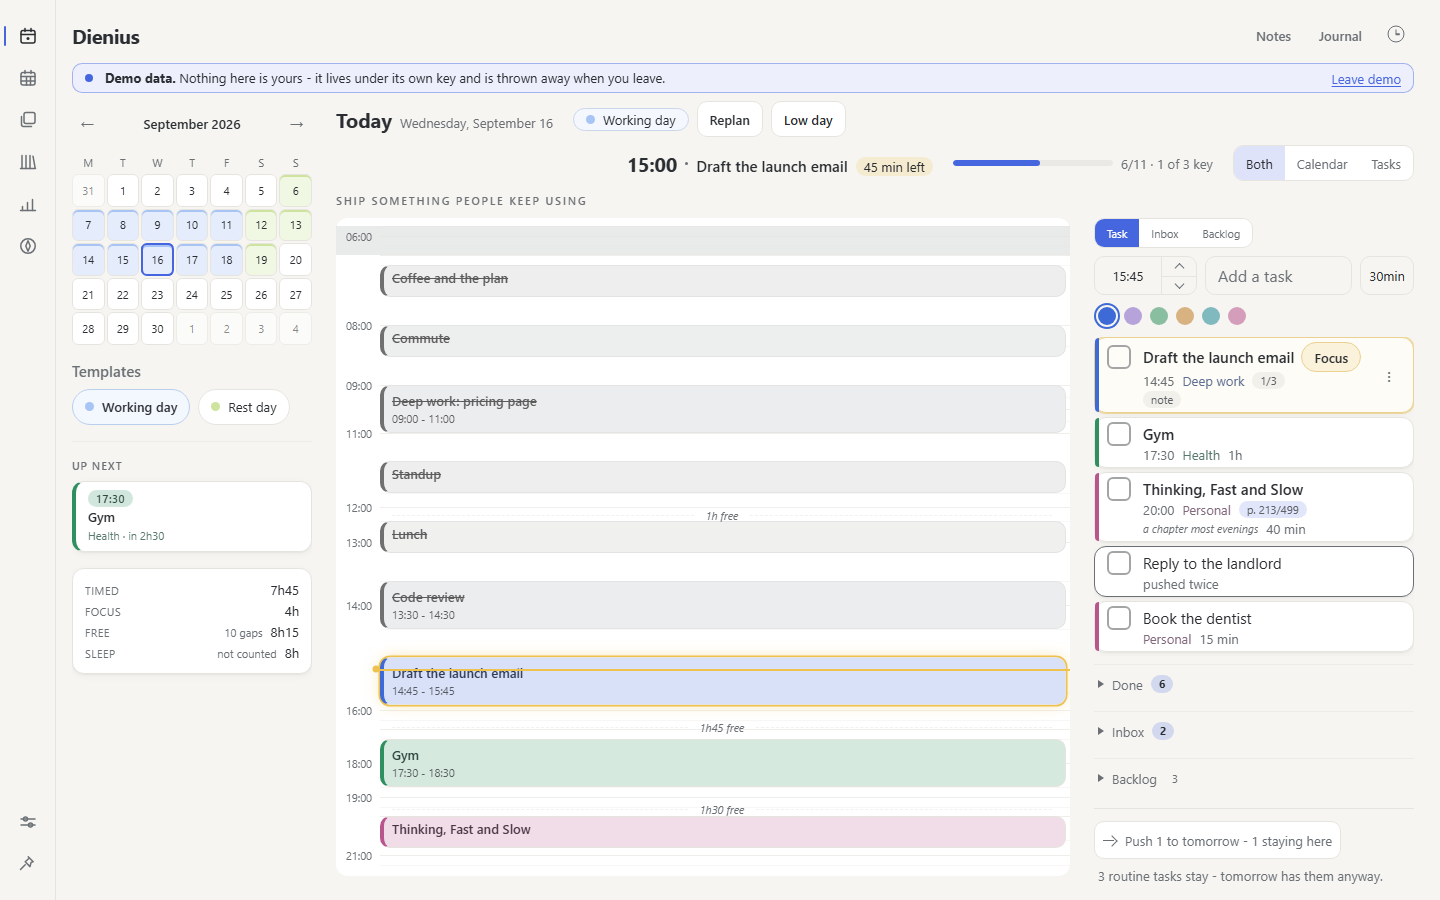
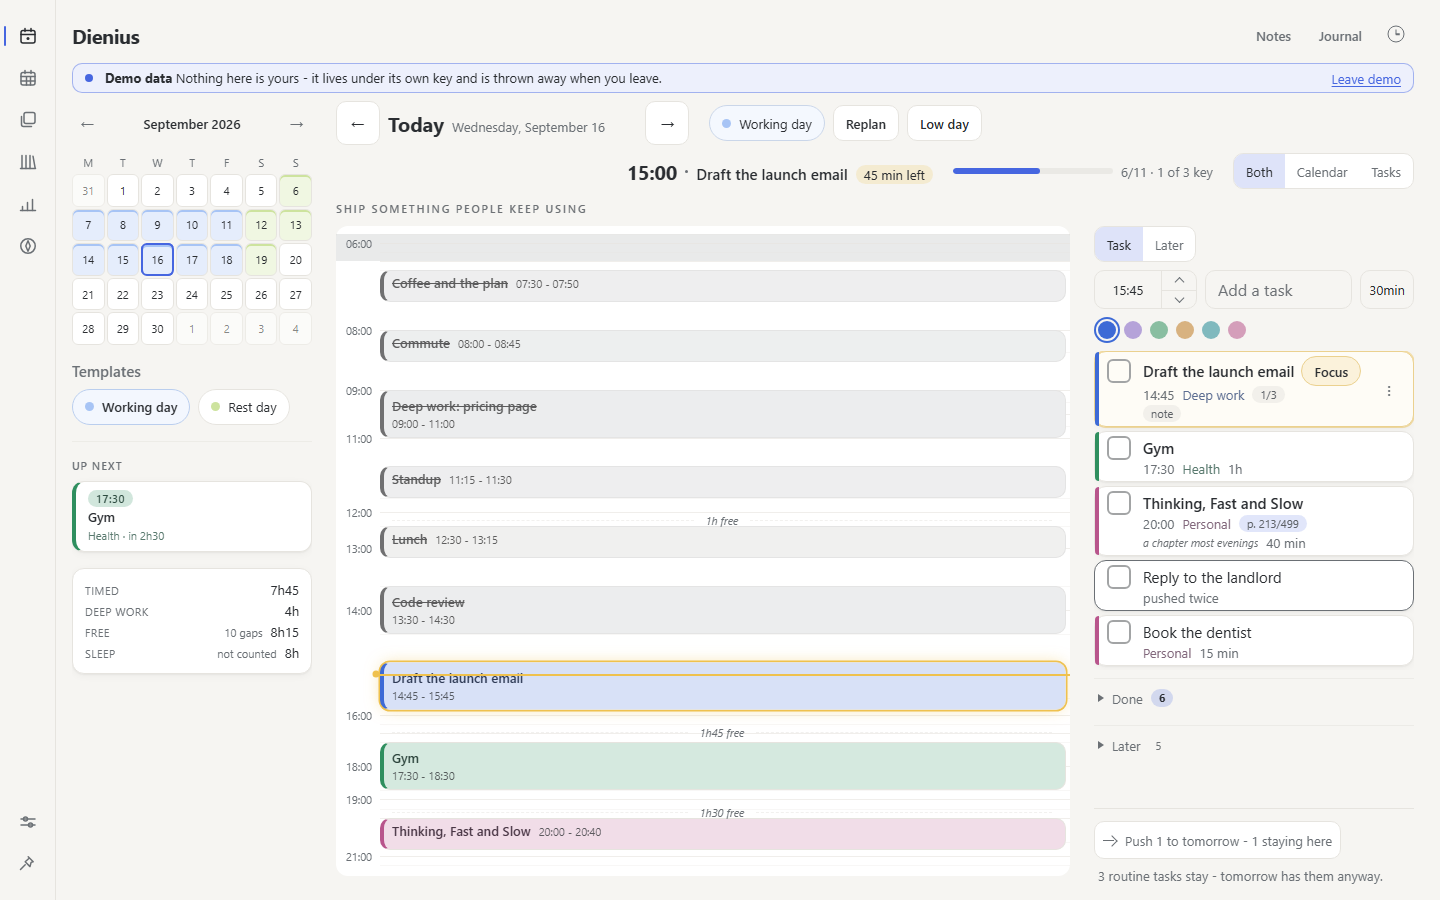
v2.7 closes: every gate, the sweep's one finding, and the app is done
Stage 7 of the last wave. The gates: typecheck, the unit suite (2341 tests
in 143 files), the build, the browser tests (35 across two viewports,
including the tour walked step by step on a desktop and on a phone), and
the sweep at zero on the desktop at 15:00, at 22:00 and at 09:00, zero on
the phone, with the self-check at 8 of 8. The README's eight screenshots
are regenerated from the same pinned Wednesday.

The sweep found one thing, and it is the shape this app keeps finding: a
defect that had been there for versions, seen only once something else
moved. At 1600x900 at ten at night the float title's hit area painted its
bottom over the size chip beside it. The 29px target is deliberate and
written down - DECISIONS "A task's title is a 29px target, on purpose" -
and that entry ends by naming the exact thing to check: whether the box
crosses the meta line under it. It did, by four pixels, since the day the
negative margin was written; it never surfaced because the task column had
always been long enough to push that row under the fold, and Later, being
one fold where there were two, made the column shorter. All the room is
above the words now: the same 29px, out of layout the same way, and above a
title is the card's own padding rather than anybody's text.

And the sweep found itself, which is worth saying plainly. Its own walk
into the week template editor pressed a button called "Add block", which
[…]

diff --git a/src/styles.css b/src/styles.css
@@ -3694,8 +3694,17 @@ select:focus {
   background: none;
   border: none;
   min-height: 0;
-  margin: calc(var(--s1) * -1) calc(var(--s2) * -1);
-  padding: var(--s1) var(--s2);
+  /* The hit area is as tall as it was, and all of it is above the words.
+     Four pixels above and four below hung the box over the meta line under
+     it, and at 1600x900 the sweep read the bottom of this button and the
+     size chip as two pieces of text painted over each other - which they
+     were, by four pixels, since the day the negative margin was written.
+     Above only: the negative margin keeps it out of the layout either way,
+     and above the title is the card's own padding rather than anybody's
+     text. See DECISIONS "A task's title is a 29px target, on purpose",
+     which named this as the thing to check. */
+  margin: calc(var(--s2) * -1) calc(var(--s2) * -1) 0;
+  padding: var(--s2) var(--s2) 0;
   border-radius: var(--r-control);
   font: inherit;
   /* After the shorthand, which would reset it: the title's own size, the

diff --git a/docs/STATE.md b/docs/STATE.md
@@ -6,18 +6,25 @@ got here, and what is still owed. Read it, then
 [`ARCHITECTURE.md`](ARCHITECTURE.md) for where the code lives. Those three
 should leave you able to start without re-reading the repo.
 
-**Last updated:** v2.6, closed and tagged. The desktop polish wave, ten
-stages from one brief, built on two rules the owner wrote down and that now
-sit in CONVENTIONS sections 23 and 24: information appears exactly once,
-and nothing moves on hover. Today's header is two zones and says nothing
-the rail's card says; the North line's peek hangs under the line instead of
-pushing the day; every tooltip in the app sits under its control; the
-Monday card is a sheet; a single pane fills its width; the task column ends
-on a footer; Scratch, the journal and the blocks each lost the thing that
-made them read as unfinished; and a health pass over every screen took
-seven hovers that moved and two numbers said twice. Section 4 has the
-table, stage by stage. The tag is `493d9de` and this handoff sits one
-commit above it. **Nothing is owed.**
+**Last updated:** v2.7, closed and tagged, and **the app is done**. The
+last wave, seven stages from one brief plus a fourth small thing the owner
+added while it ran, on a third rule that now sits in CONVENTIONS section
+25: a state has to earn its place. The header's chip and its toggles stand
+on one line with the date's arrows back at 44px and the date in a box that
+cannot move; every block on both grids says when it starts and ends; the
+Inbox and the Backlog are one list called Later; the Year view and Review's
+streak are gone, and the month line says how many days had a plan; Review
+carries "Where the plan and the week disagreed", which is the reading the
+next brief comes out of; the research the docs never leaned on is written
+down as what they rest on instead; OPEN-QUESTIONS is empty; and every
+string in the app was read as one document and brought to one word per
+gesture. Section 4 has the table, stage by stage.
+
+**What happens now is the done contract**, under "Asked for, not yet built"
+in this section: the owner lives in the app for a week, on the phone it was
+written for and on the desktop it was polished on, and the next brief comes
+out of that week - out of Review's reading and out of what real use turns
+up - rather than out of a session with time left over. **Nothing is owed.**
 
 **Before that: v2.5**, twelve stages from three briefs in one sitting:
 notes stop pretending to be a database, they hold pictures, and one press
@@ -191,11 +198,17 @@ on a Friday and this is the rest of the same release.
 
 ### Nothing is half-built
 
-Still true, and checked rather than assumed. The suite is green - **2346
+Still true, and checked rather than assumed. The suite is green - **2341
 tests in 143 files, plus 35 Playwright tests across two viewports** - the
 typecheck and the build are clean, and `npm run sweep` reports nothing on
-the desktop and nothing on the phone, with `--self-check` at 8/8. The
-working tree is empty and pushed.
+the desktop at three hours and nothing on the phone, with `--self-check` at
+8/8. The working tree is empty and pushed.
+
+The count is five lower than v2.6's and the app is larger, which is the
+shape of this wave: the Year strip took forty-two tests with it and Review's
+streak seven, and the twenty-six that came in - the fold into Later, the
+next free slot, the week's disagreements, the keys, the chip that asks -
+are about things that exist.
 
 Read that sweep line as stronger than the same sentence in v2.4. The pass
 now sees through a fade, reads what a field says, walks a pinned clock
@@ -238,7 +251,7 @@ to choose between at the moment of writing.
 | 4 | The docs told the truth | named in the handoff | Every living doc and the copy in `explain.ts` and `tour.ts` searched for "Zeigarnik", "decision fatigue", "ego depletion" and "evidence shows": the terms occur only in the research documents, where they are named to be refused, and in the push-bound entry, which refuses them - nothing had to come out. What the brief asked for is written once in DECISIONS "Three arguments the docs do not make" (what capture, the no-new-decisions rule and the grid rest on instead), the no-new-decisions rule is stated in CONVENTIONS section 25 with the abandonment literature as its reason, and "Relatedness is the motivator local-first cannot serve", which had said everything 4d asked for since 2026-09-01, takes the brief's name, "Relatedness is a known cost" |
 | 5 | The open questions closed | named in the handoff | Both items moved to DECISIONS as accepted, with their reasons and the two honest fixes each named - "The mini calendar's cells stay at 33px", "A task's title is a 29px target, on purpose" - and OPEN-QUESTIONS is empty with the date. The standing touch-hardware note became the done contract's first line: the owner's week on the phone is the first touch test |
 | 6 | One voice | named in the handoff | The keyboard card behind `?` made true key by key: `1` opens today as the rail's button does, `F` starts Focus on today's running task whatever day is on screen, the arrow rows say they work on the day view, the backtick is on the card at last, and the card itself is two columns from 720px because nineteen rows in one ran 802px into a 640px box and hid the Ctrl-K row, the note and the way into the tour. Escape closes one layer per press: five popovers stopped the event as the actions sheet already did, and the clock joined the guard that keeps a bare key from reaching the shell under a dialog. The tour's one false sentence - "That bar along the bottom is Focus" - says "That strip under the header" and was walked on both platforms. Then every string in the app read as one document: one word per gesture (Delete for a whole thing, Remove for a part, Erase for everything, Close for a surface, Dismiss for a notice, Cancel for stepping back, Save for a form, "Add a" for a countable thing, Onto for a day, Push for a task that was not done), the armed second press as the verb and a question mark, no contractions, every empty state one sentence, "How long" for every length control, Notes for the stream on screen, and a tooltip that only repeated its own control removed. About a hundred and thirty strings, every test and browser test that named one, and DAILY read against the app |
-| 7 | Closing and `v2.7` | | |
+| 7 | Closing and `v2.7` | named in the handoff | Every gate: typecheck, 2341 unit tests in 143 files, the build, 35 browser tests across two viewports including the tour walked step by step on a desktop and a phone, and the sweep at zero on the desktop at 15:00, 22:00 and 09:00 and on the phone, with the self-check at 8 of 8. The README's screenshots regenerated from the same pinned Wednesday. The one finding on the wave was the sweep's, at 22:00 and 1600x900: the float title's 29px hit area hung four pixels over the meta line under it and painted its bottom over the size chip, which it had done since the negative margin was written, and which this app's own DECISIONS entry had named as the thing to check - the room is all above the words now. This table, the tags table, CONVENTIONS 25, the DECISIONS entries, and the tag |
 
 #### The brief, as understood
 
@@ -906,6 +919,7 @@ and pushed. Nothing below this table is owed.
 | `v2.4` | `f544c55` | The polish wave, on top of v2.3. Two commits sit above it before the next tag |
 | `v2.5` | `57db593` | Notes, pictures, set-aside, the library's add row, the tour, the template timeline, the journal, the settings health check, and the closing. On top of v2.4. Three commits sit above it, untagged: the handoff, and the two waves of follow-up in the table under this one |
 | `v2.6` | `493d9de` | The desktop wave, on top of everything above: the brief, the header, the seven stages in one commit, the health pass, and the closing |
+| `v2.7` | named in the handoff | The last wave: the header's three small things and the times on every block, Later where two shelves were, the Year view and Review's streak gone, where the plan and the week disagreed, the docs told the truth, the open questions closed, one voice over every string, and the closing. The app is done at this tag |
 
 The move is why `v2.0-desktop` exists: nothing was published between the two
 halves, so one version number is honest, but the earlier commit is worth

diff --git a/docs/DECISIONS.md b/docs/DECISIONS.md
@@ -2085,7 +2085,17 @@ It stays as built, with the owner's word. A target 29px tall and 200px
 wide is a different thing from a 29px square - the dimension a thumb
 misses on is the one this keeps generous - and the same card's actions
 menu sits at the full 44px and reaches the same placement, so nothing here
-is the only way to anything. If real hardware ever says otherwise, the fix
+is the only way to anything.
+
+**The thing this entry said to check turned out to be true.** The hit area
+was four pixels above the words and four below, and the four below hung
+over the meta line under them: at 1600x900 the closing sweep read the
+bottom of the title and the size chip as two pieces of text painted over
+each other, which by four pixels they were, and had been since the negative
+margin was written. All of the room is above the words now - the same 29px,
+out of layout the same way, and above a title is the card's own padding
+rather than anybody's text. The target did not shrink and the entry stands;
+only the direction the box grows in changed. If real hardware ever says otherwise, the fix
 is a fixed content height on the label row with the hit area extended on
 both axes by the same padding-and-negative-margin, and then a check that
 the selected state's outline does not cross the meta line under it, which

diff --git a/docs/ARCHITECTURE.md b/docs/ARCHITECTURE.md
@@ -676,7 +676,7 @@ ever needed to influence anything outside it.
 
 ## 9. Tests
 
-Vitest + Testing Library + jsdom. 2346 tests in 143 files, no worker limits, no skips; plus 35 Playwright tests across two viewports in 16 files against the production build (section 4's `e2e/`), and `npm run sweep` measuring every screen in a real browser (CONVENTIONS section 9).
+Vitest + Testing Library + jsdom. 2341 tests in 143 files, no worker limits, no skips; plus 35 Playwright tests across two viewports in 16 files against the production build (section 4's `e2e/`), and `npm run sweep` measuring every screen in a real browser (CONVENTIONS section 9).
 
 Two kinds, deliberately:
 
